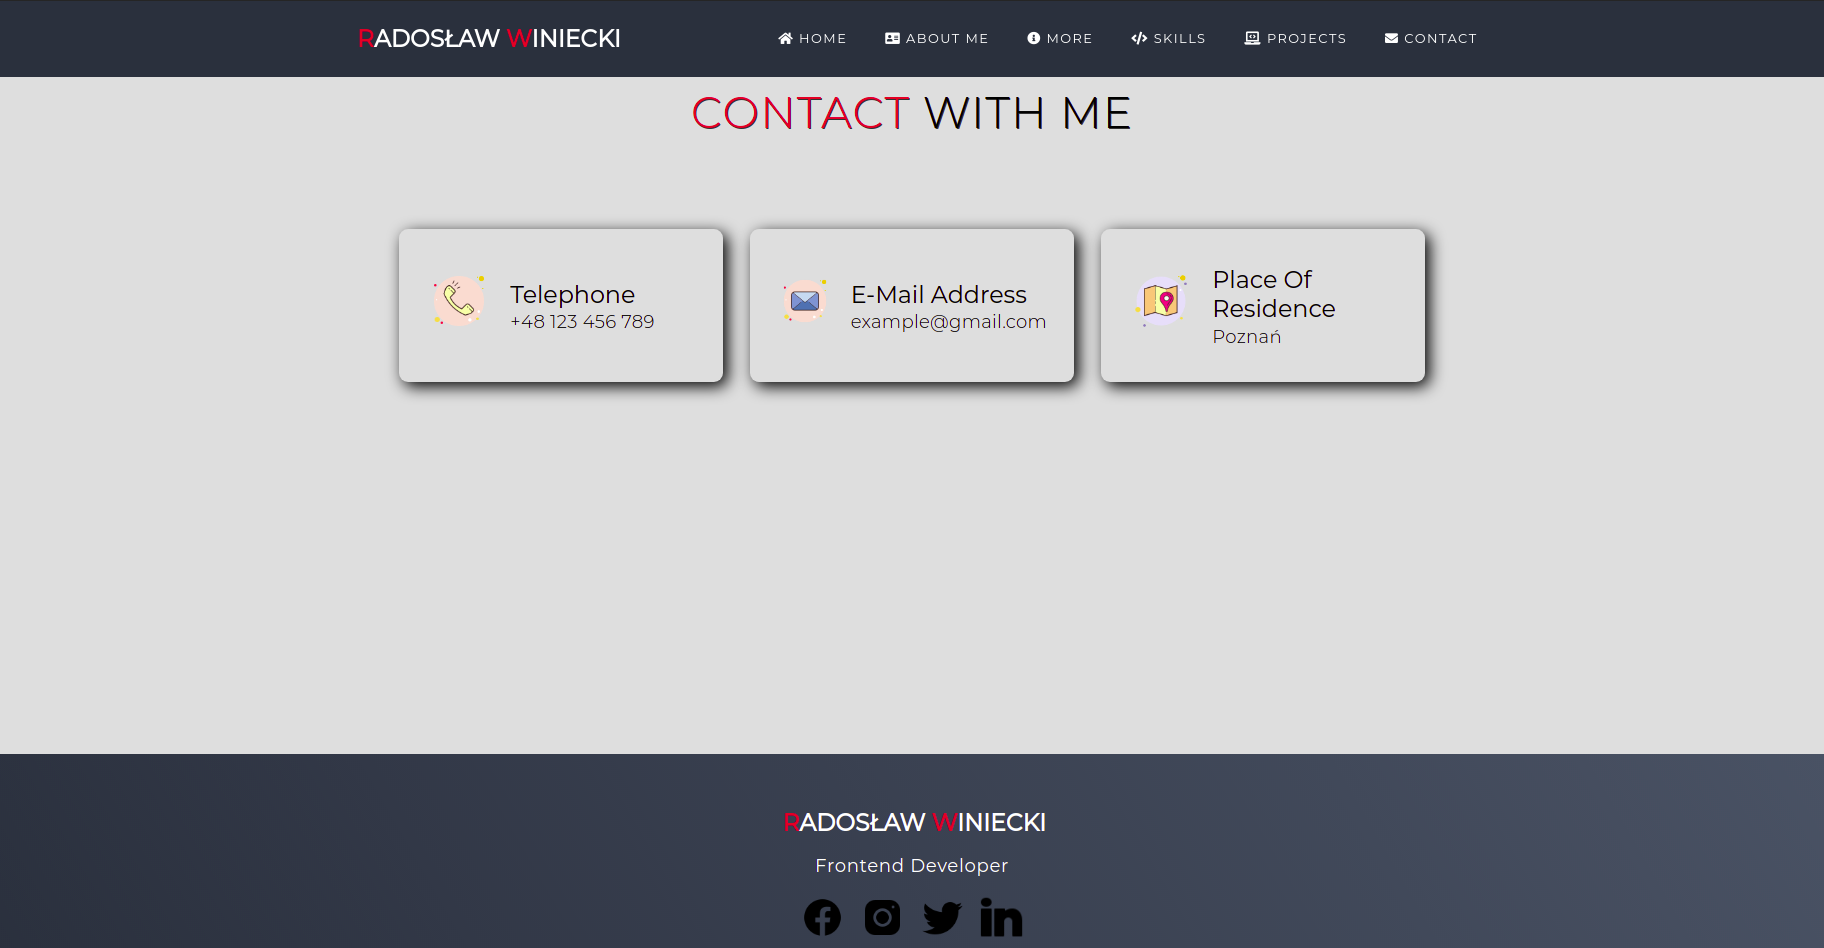
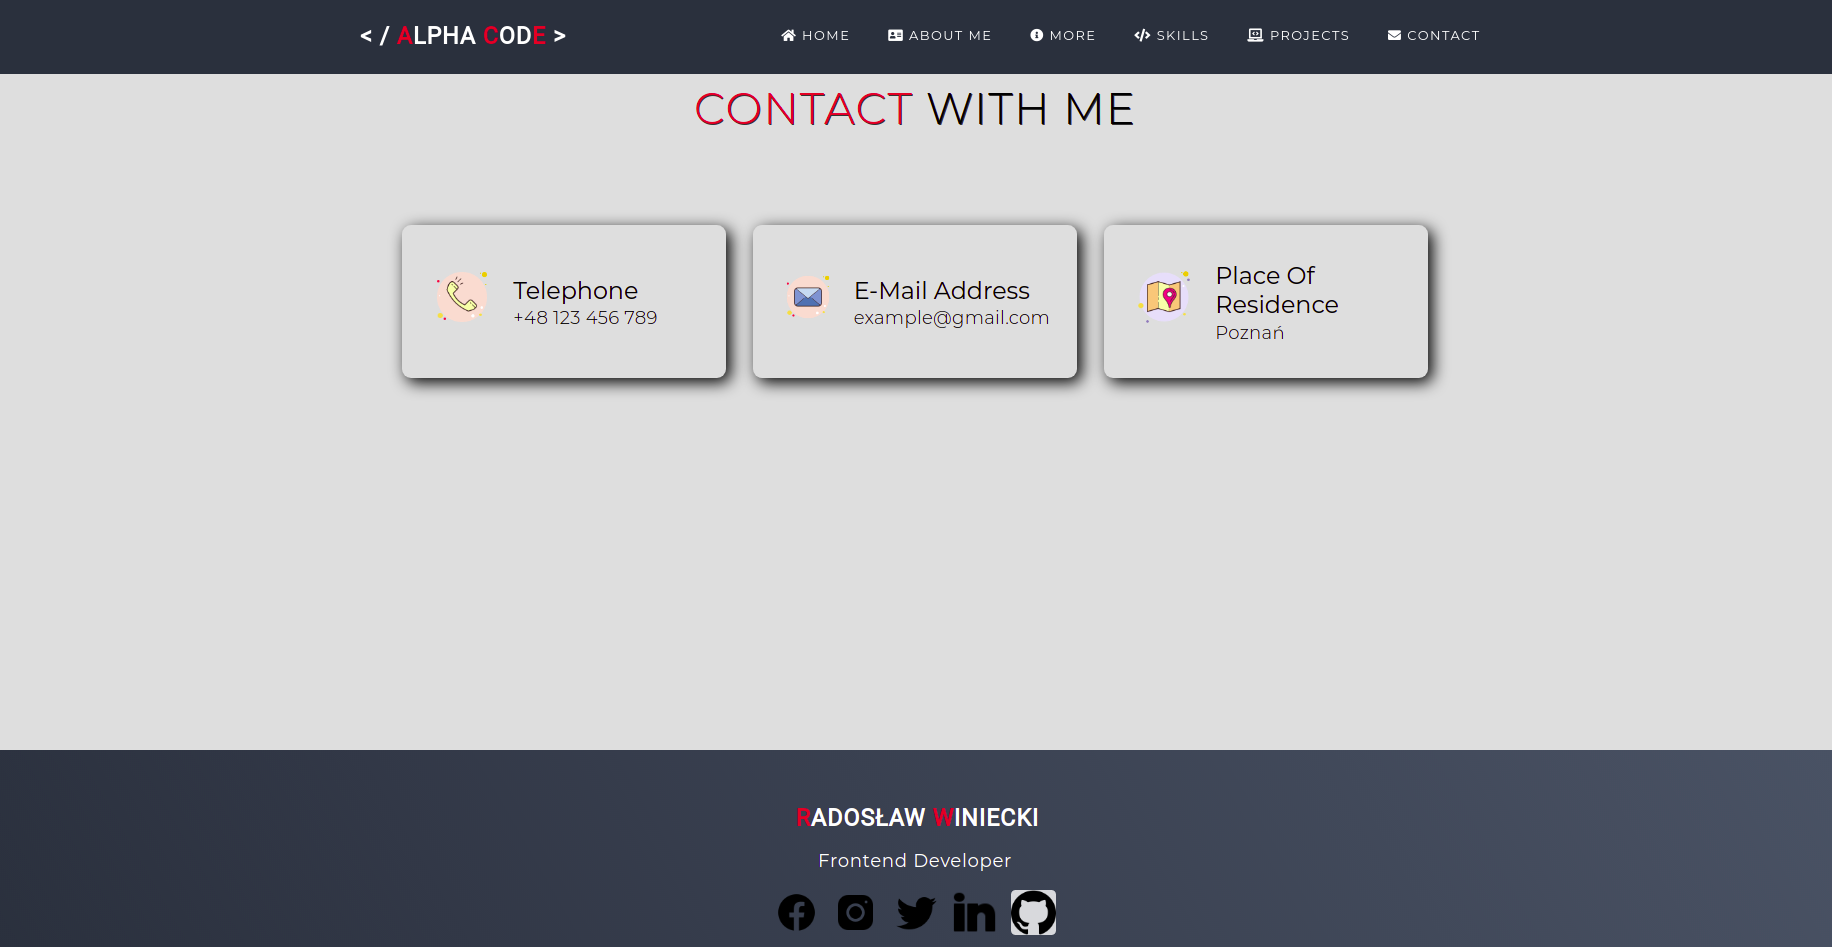
Add a new social-item

diff --git a/index.html b/index.html
@@ -409,6 +409,9 @@
             <div class="social-item">
                 <a href="#"><img src="img/contact/linkedin.png" alt="icon"/></a>
             </div>
+            <div class="social-item">
+                <a href="https://github.com/radek-winiecki" target="_blank"><img src="img/contact/github.png" alt="icon"/></a>
+            </div>
         </div>
         <p>&copy; <b>< / Alpha Code ></b> All rights reserved. 2021</p>
     </div>
